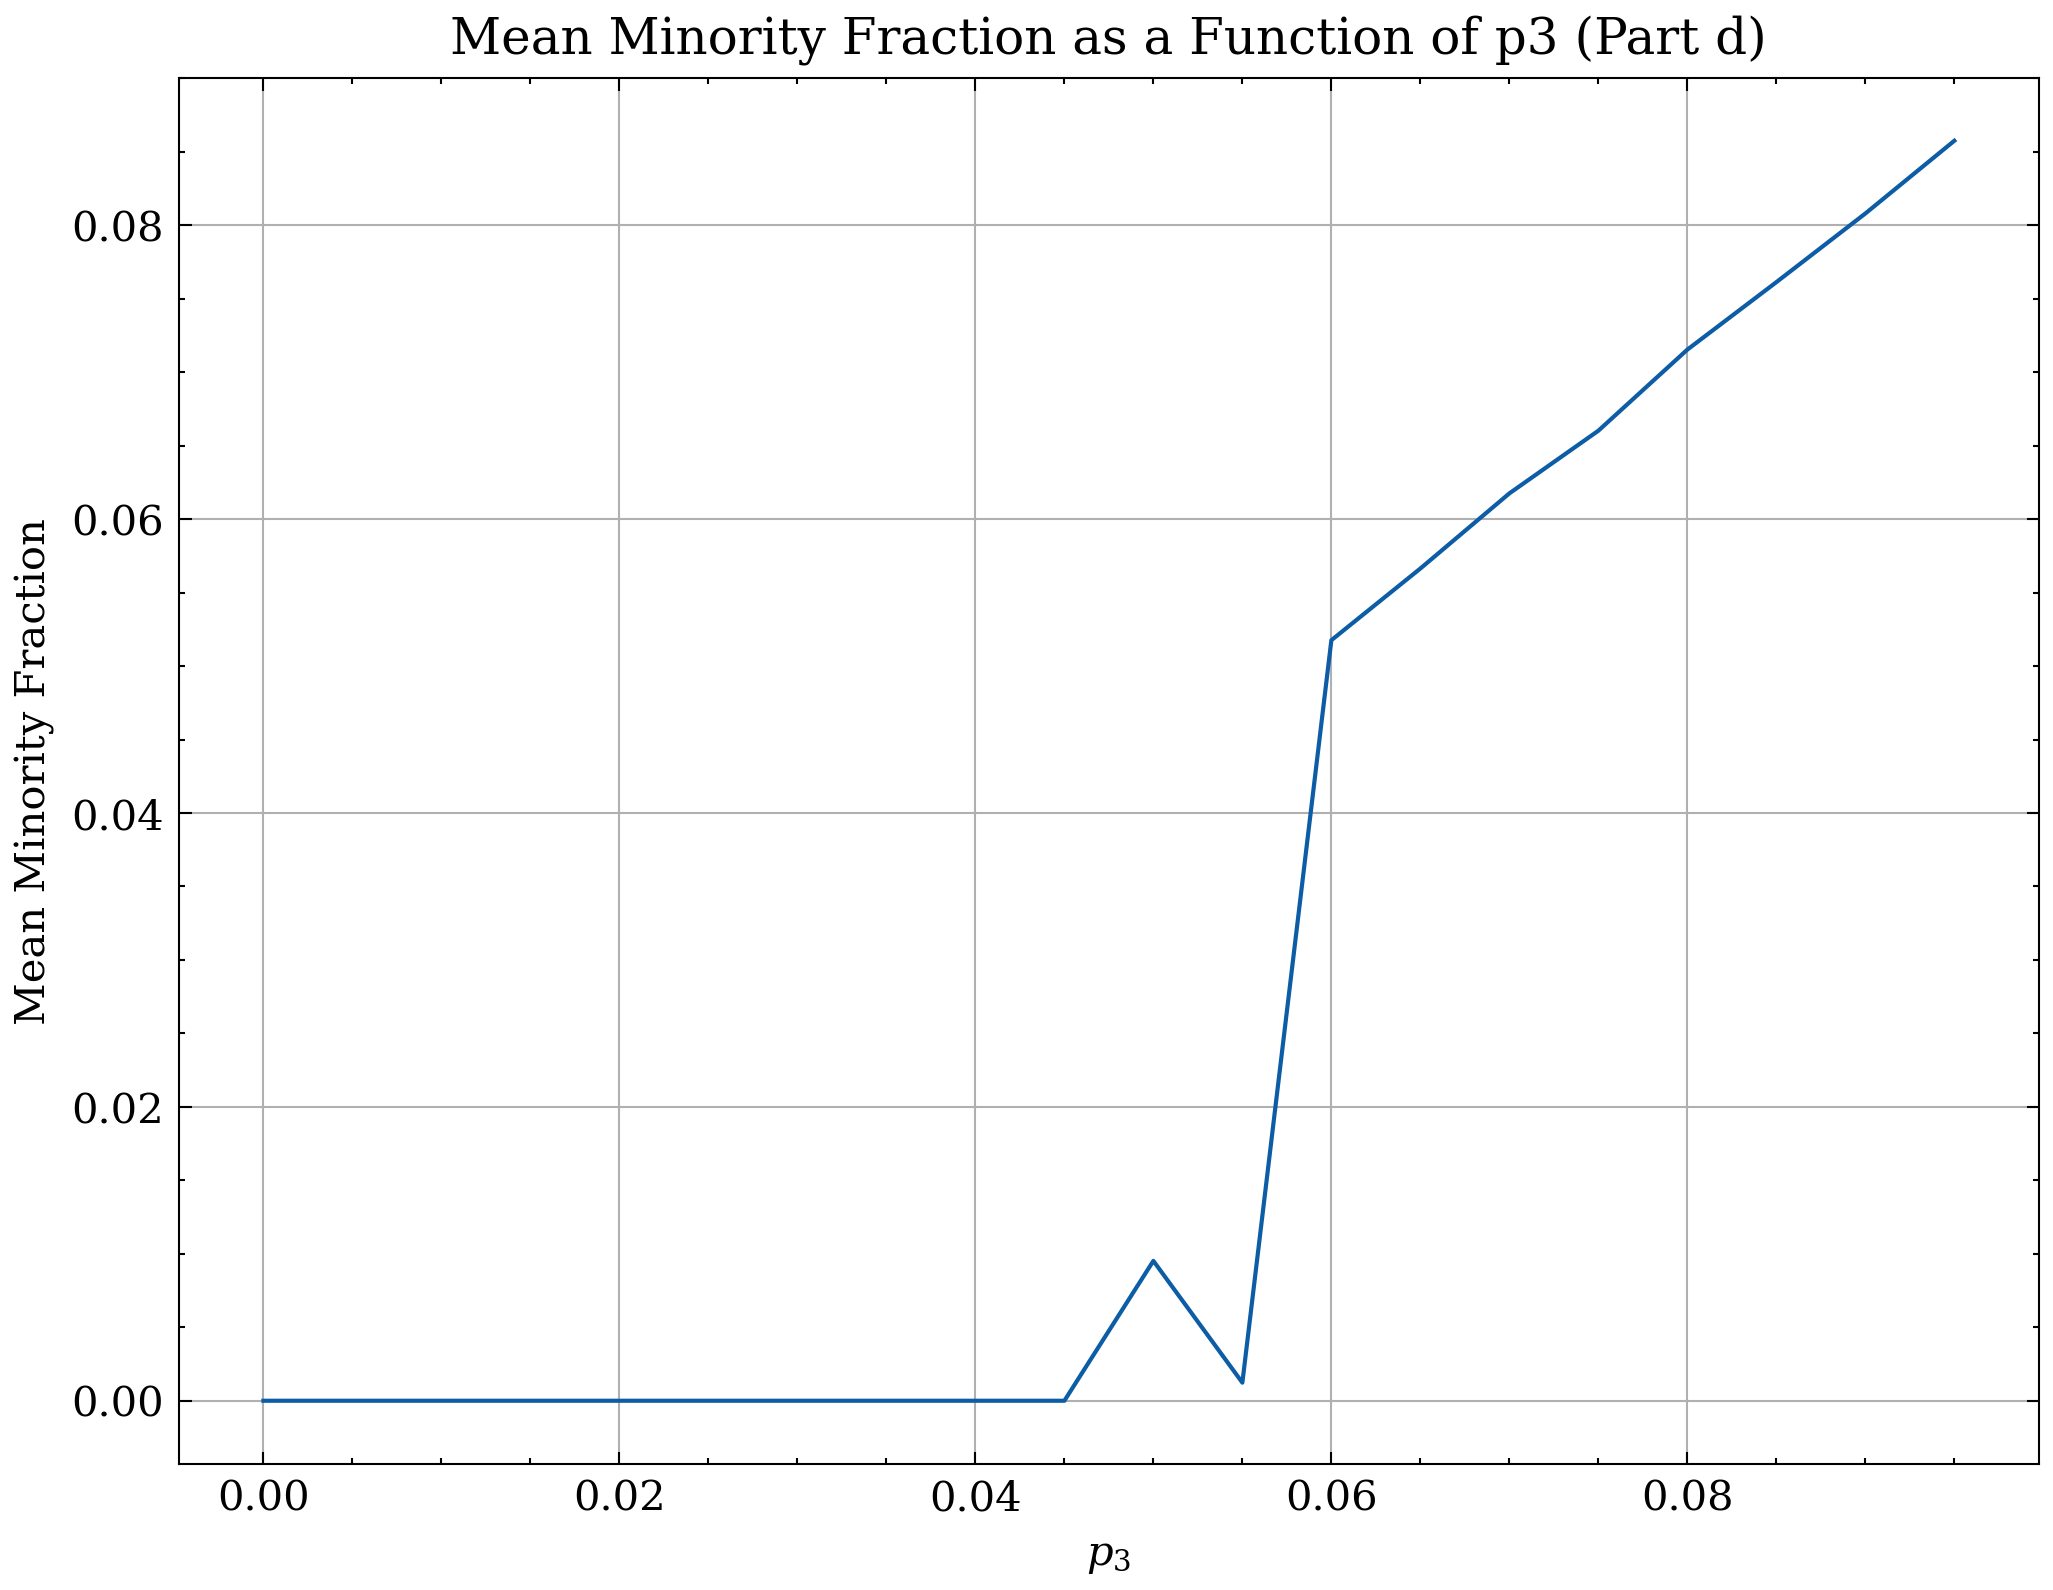
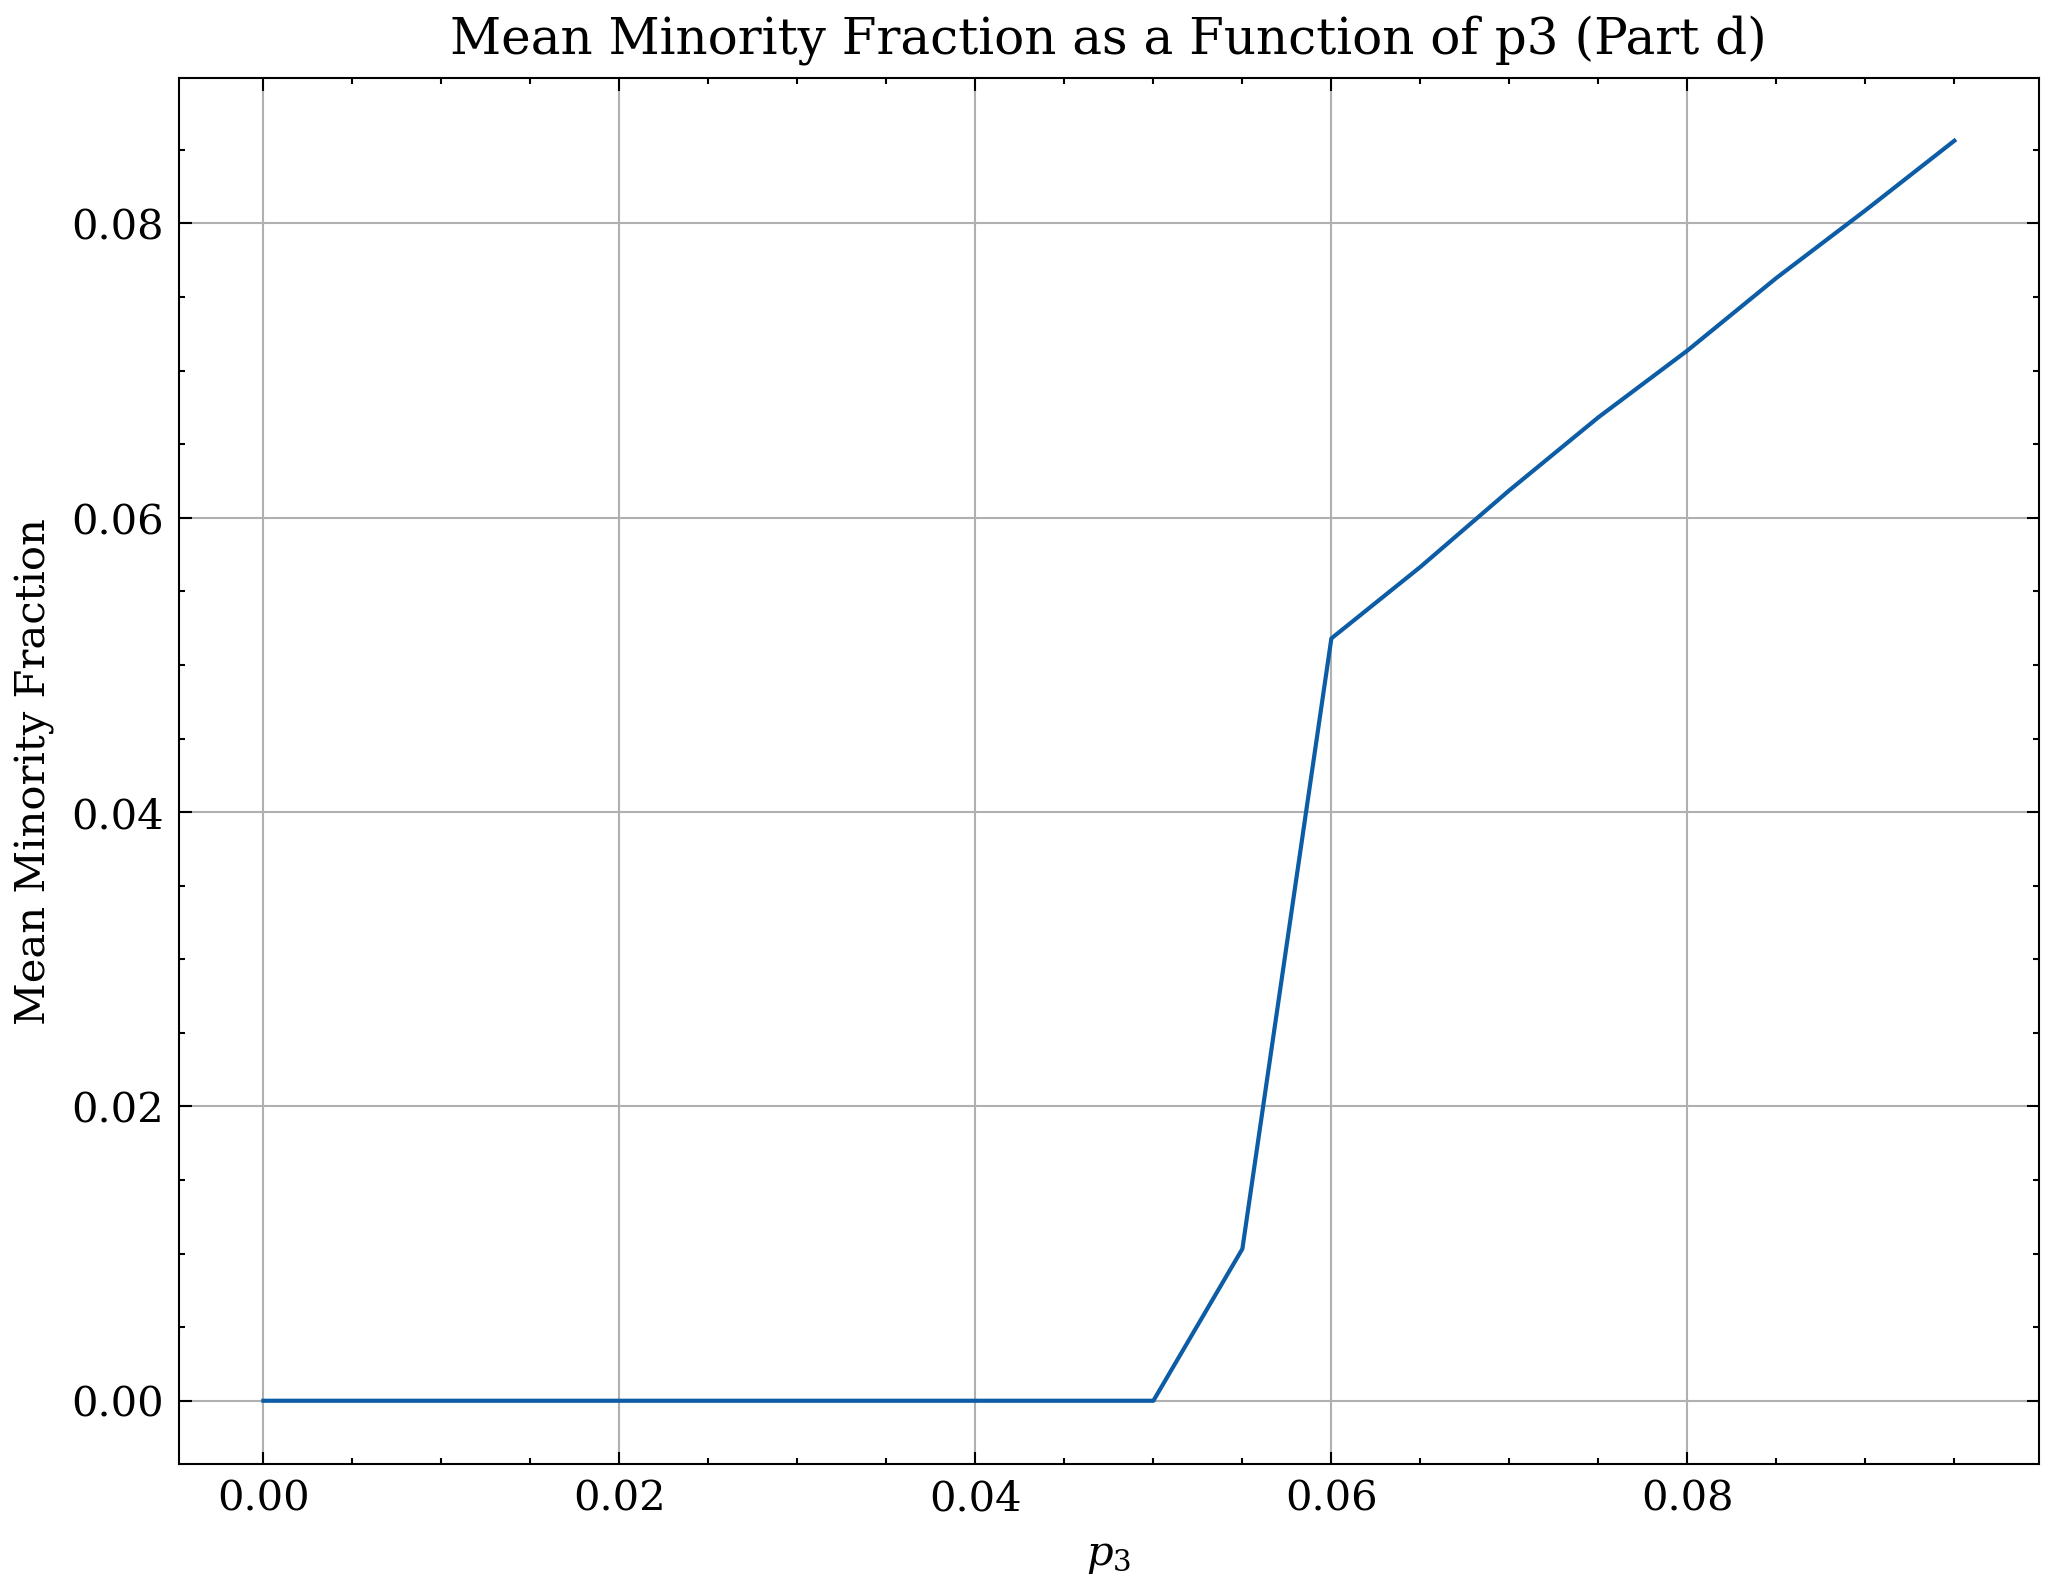
Fixed bug in data collection: allocated list of too large length, biasing mean fractions to 0.

diff --git a/2023/2023.py b/2023/2023.py
@@ -266,7 +266,7 @@ class SequentialRPS:
     
     @staticmethod
     def minority_phase_run_e(p2: float, p3: float, N: int = 50, p1: float = 0.5, 
-                           eq_steps: int = 1500, measure_interval: int = 100, measure_steps: int = 5000) -> tuple[np.ndarray, ...]:
+                           eq_steps: int = 1500, measure_steps: int = 5000) -> tuple[np.ndarray, ...]:
         """
         Question d) data collection (joblib friendly)
         """
@@ -276,8 +276,7 @@ class SequentialRPS:
         fractions = np.zeros(measure_steps)
         for i in range(measure_steps):
             rps.sweep()
-            if i % measure_interval == 0:
-                fractions[i] = rps.find_minority_fraction()
+            fractions[i] = rps.find_minority_fraction()
         return np.mean(fractions)
 
 parser = argparse.ArgumentParser(description='Cellular Automata: RPS Models')